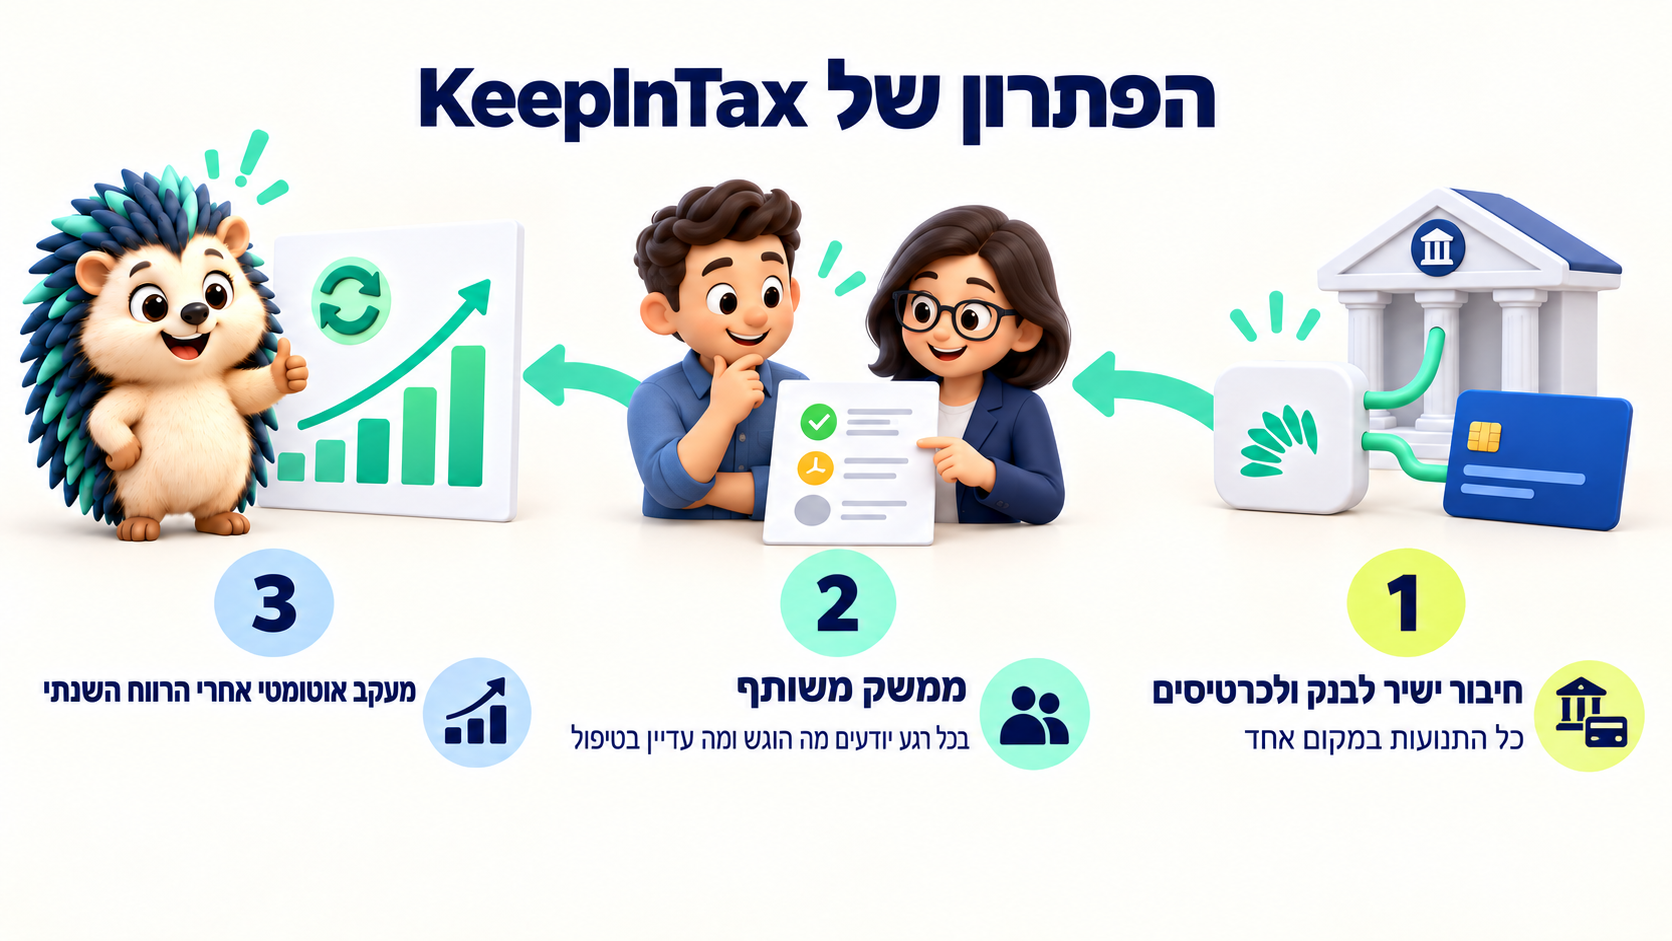
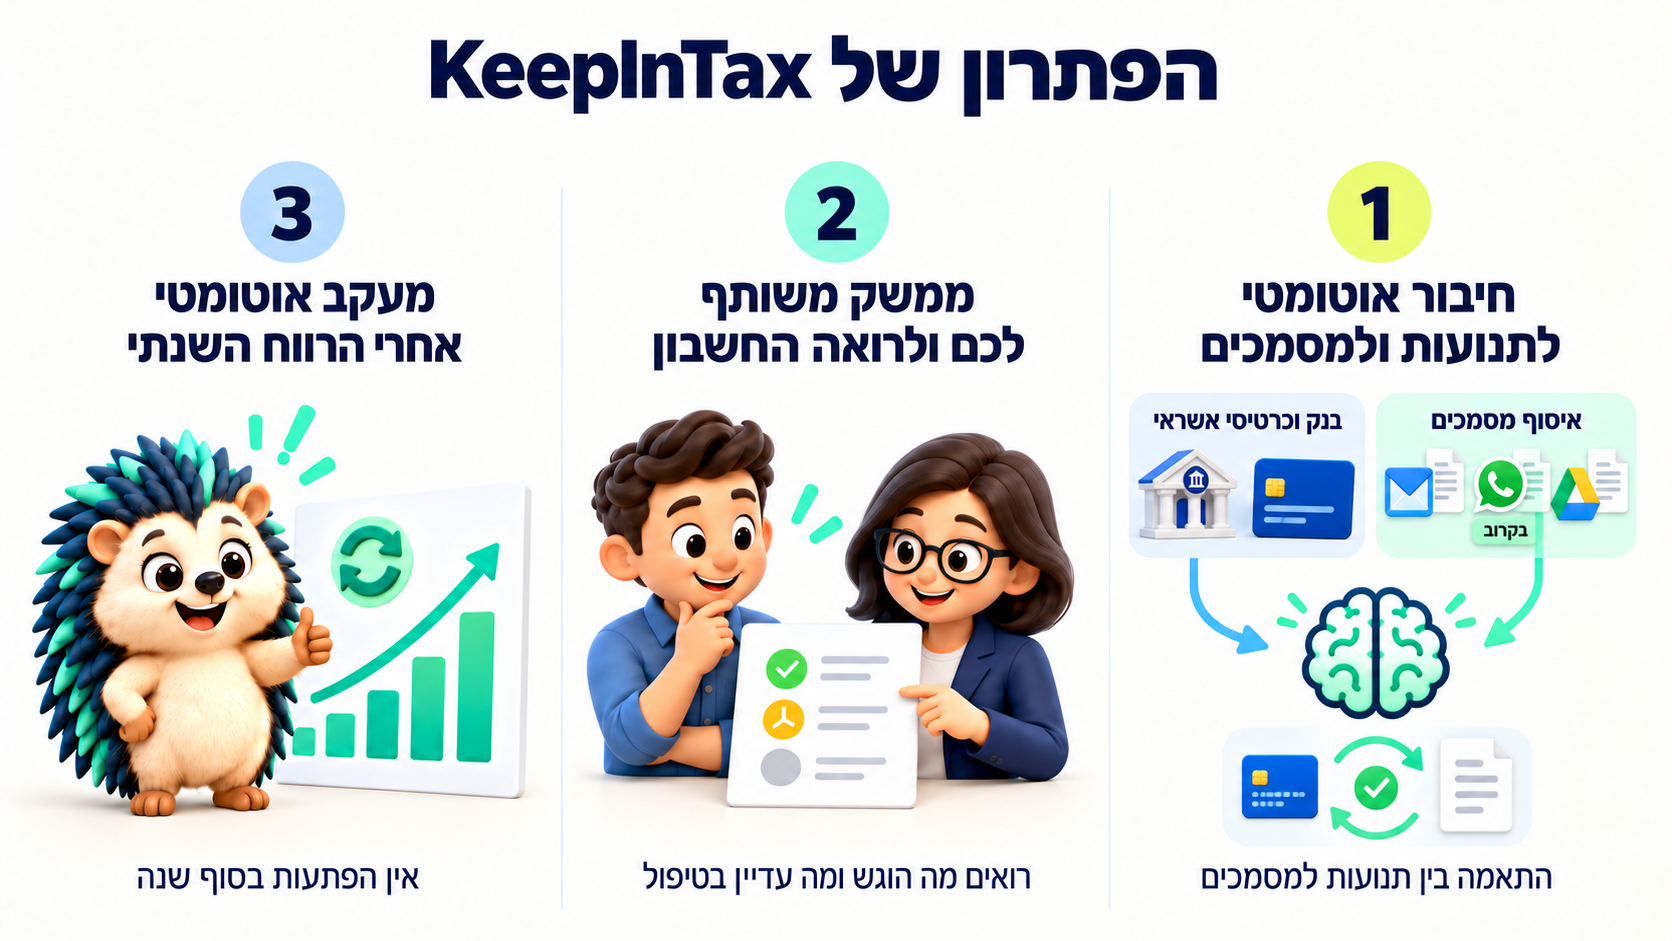
art(guide): implement approved solution matching slide

diff --git a/frontend/src/app/pages/admin-panel/self-employed-guide.content.ts b/frontend/src/app/pages/admin-panel/self-employed-guide.content.ts
@@ -58,7 +58,7 @@ export const SELF_EMPLOYED_GUIDE_SLIDES: GuideSlide[] = [
   {
     id: 'product-solution', layout: 'approved-artwork', title: 'הפתרון של KeepInTax',
     artwork: '/assets/self-employed-guide/product-solution-approved.png',
-    artworkAlt: 'הפתרון של KeepInTax. 1: חיבור ישיר לבנק ולכרטיסים — כל התנועות במקום אחד. 2: ממשק משותף — בכל רגע יודעים מה הוגש ומה עדיין בטיפול. 3: מעקב אוטומטי אחרי הרווח השנתי.',
+    artworkAlt: 'הפתרון של KeepInTax. 1: חיבור אוטומטי לתנועות ולמסמכים — בנק וכרטיסי אשראי ואיסוף מסמכים מהמייל, מ-Drive ומ-WhatsApp (בקרוב), מתנקזים למוח המערכת להתאמה בין תנועות למסמכים. 2: ממשק משותף לכם ולרואה החשבון — רואים מה הוגש ומה עדיין בטיפול. 3: מעקב אוטומטי אחרי הרווח השנתי — אין הפתעות בסוף שנה.',
   },
   {
     id: 'cover',

diff --git a/frontend/src/app/pages/admin-panel/AGENTS.md b/frontend/src/app/pages/admin-panel/AGENTS.md
@@ -18,6 +18,8 @@ Internal admin console (tabbed) for staff to manage clients dashboard, the unifi
 
 ## Main flows
 
+- Solution artwork updated 2026-10-02 from approved `exec-6356ab9b-6f38-4172-90dc-b5a5d66bc582.png`: aligned headings, separate bank/card and document inputs converging on a matching brain, WhatsApp marked forthcoming, and the approved year-end caption. Same lossless asset replacement/contain renderer; accessible copy updated. Provenance and claim boundaries in `docs/marketing/product-introduction-slides.md`.
+
 - Pain-slide quality replacement: latest approved source is `exec-a401c3db-607a-443d-ace3-fffe81d1edbb.png`, rebuilt from the sharp original and then edited only for smaller detached arrows. Supersedes the earlier multi-edit image below; same asset path and contain renderer, no code changes.
 
 - Product-pain artwork updated 2026-09-29 to approved `exec-d1248bbb-745e-4d6f-a285-f8095224bf39.png`, copied losslessly to the existing asset path. Forgotten yellow sheet on floor, missed sheet outside accountant folder, separated stages and detached arrows. Native contain renderer unchanged; provenance in `docs/marketing/product-introduction-slides.md`.

diff --git a/docs/marketing/product-introduction-slides.md b/docs/marketing/product-introduction-slides.md
@@ -5,6 +5,15 @@ Integrated on 2026-09-22 at the user's request from task
 
 ## Artwork and placement
 
+2026-10-02 approved solution replacement: `exec-6356ab9b-6f38-4172-90dc-b5a5d66bc582.png`
+copied byte-for-byte to `product-solution-approved.png` (main slide 12).
+Three aligned columns with equal-size headings and more title spacing. Bank/card
+transactions and email/Drive/WhatsApp documents independently converge on the
+system brain, illustrating matching. WhatsApp remains labelled `בקרוב`.
+Step 3 caption is `אין הפתעות בסוף שנה`; this is the approved marketing wording,
+not a guarantee of zero year-end tax or a new alert capability. Accessible copy
+matches the artwork. Existing contain rendering and navigation are unchanged.
+
 Latest approved quality replacement (2026-09-29):
 `exec-a401c3db-607a-443d-ace3-fffe81d1edbb.png` is now the live pain asset,
 copied byte-for-byte without resizing or recompression. It derives from a fresh
